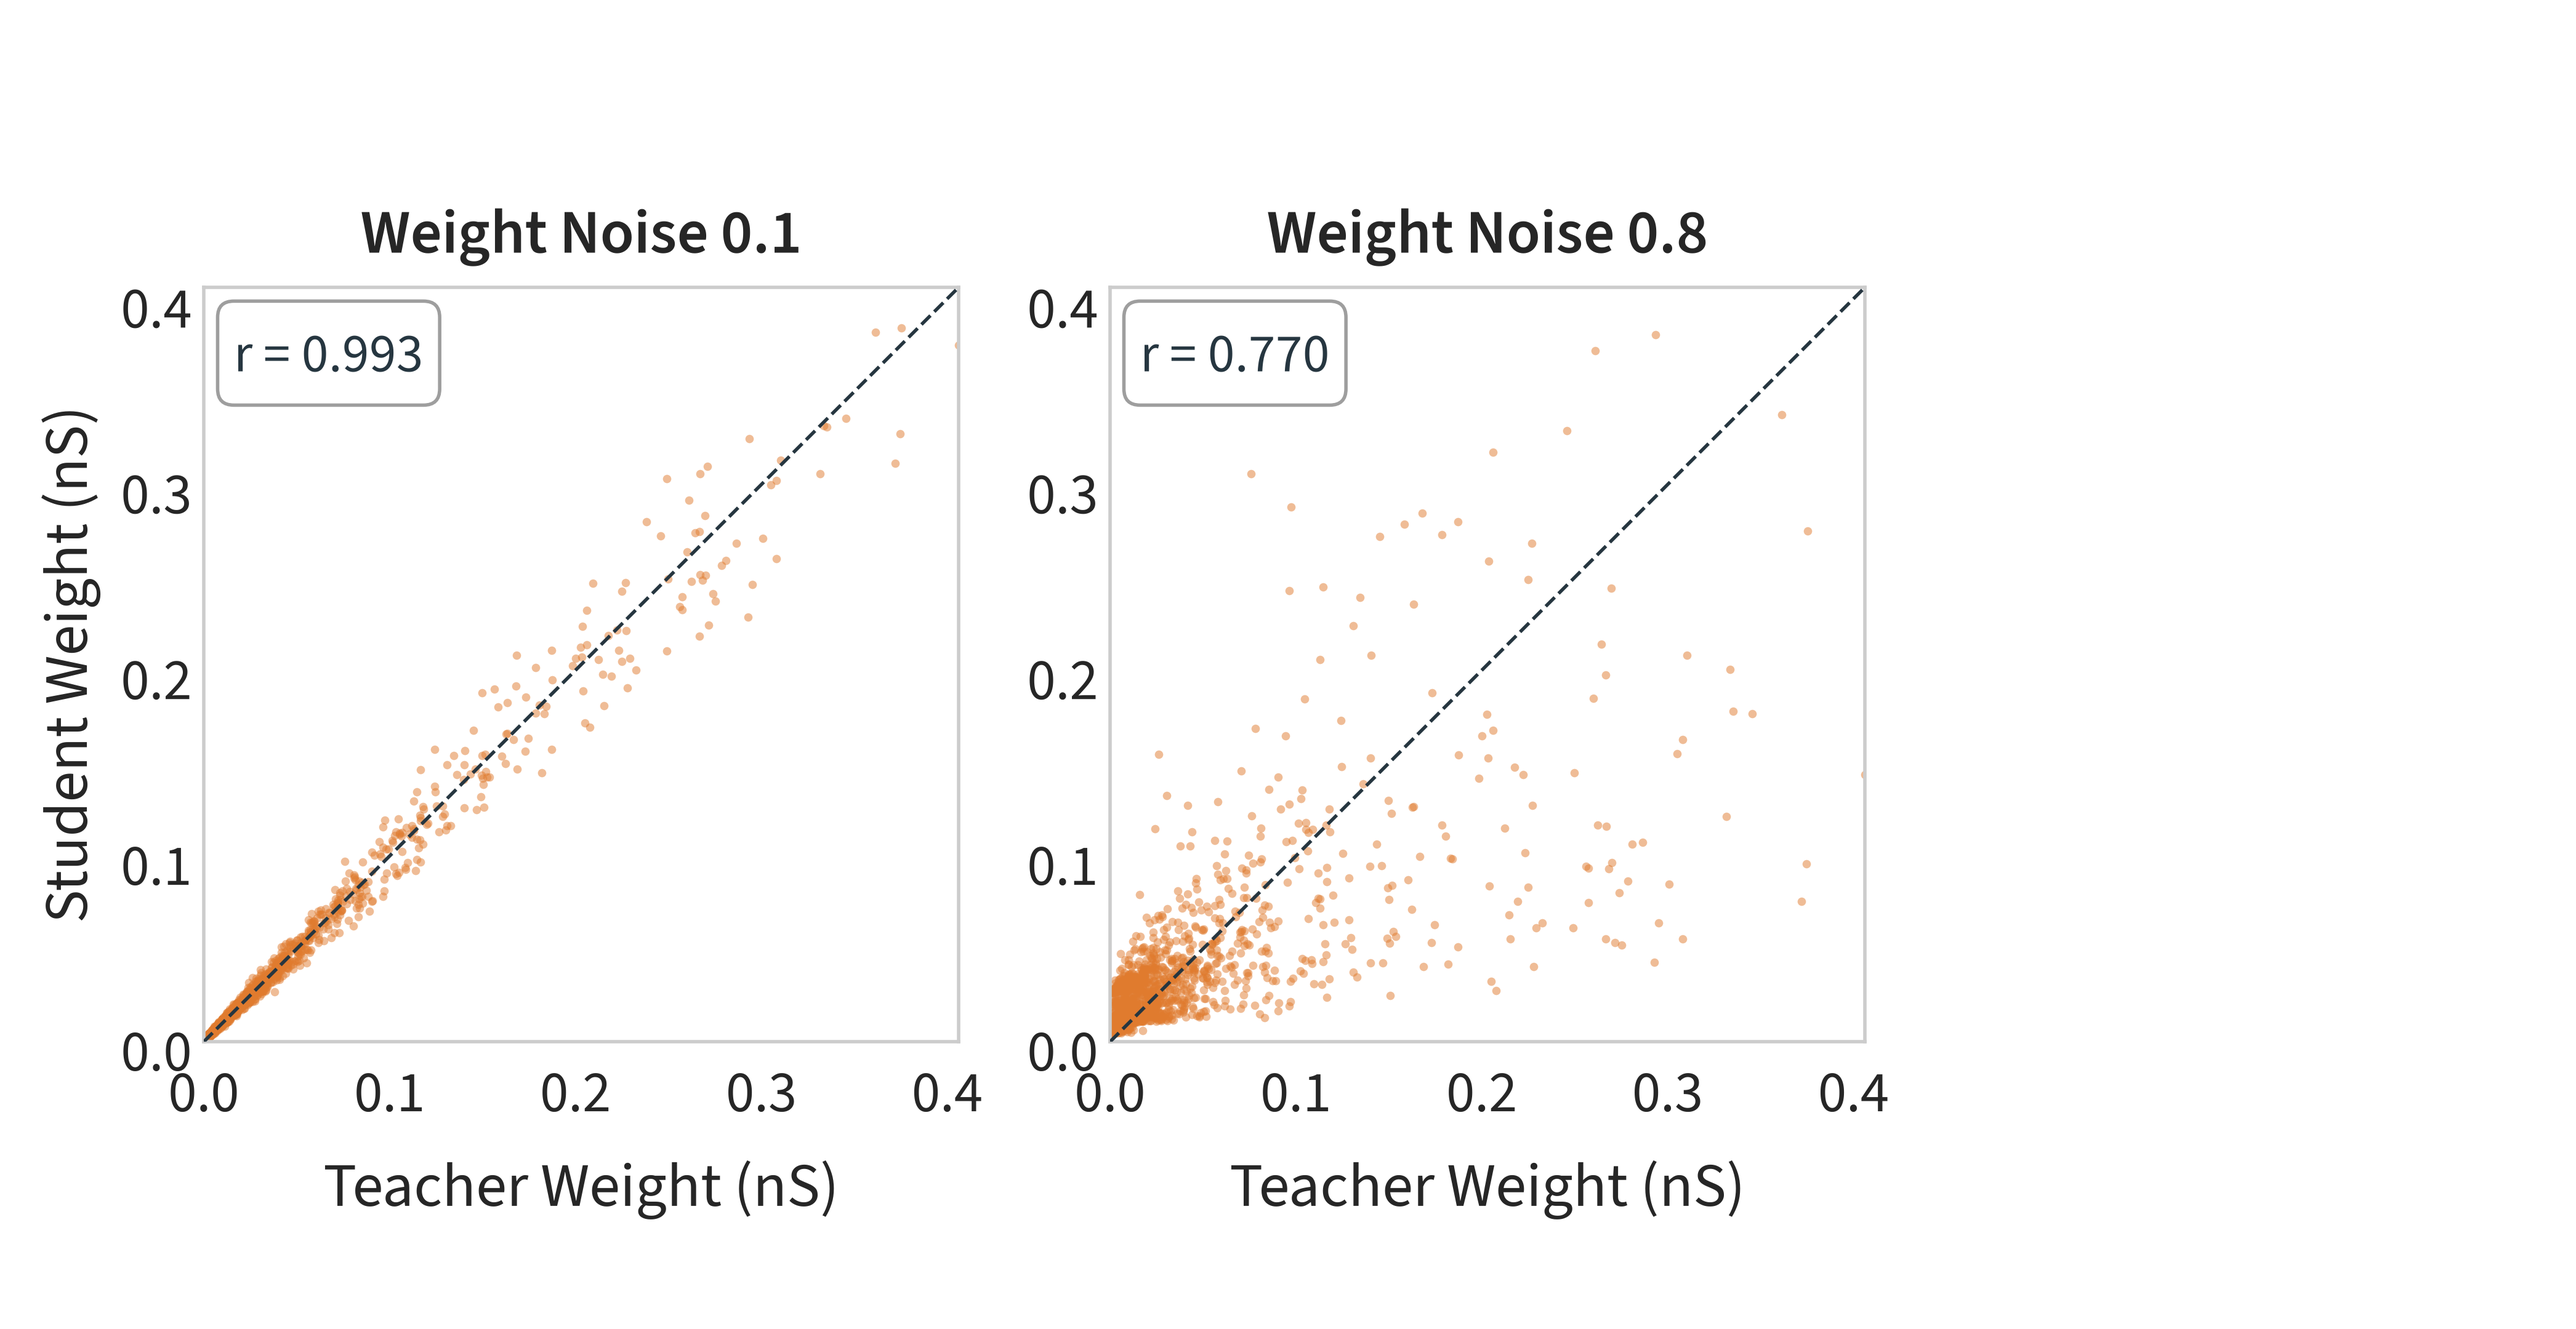
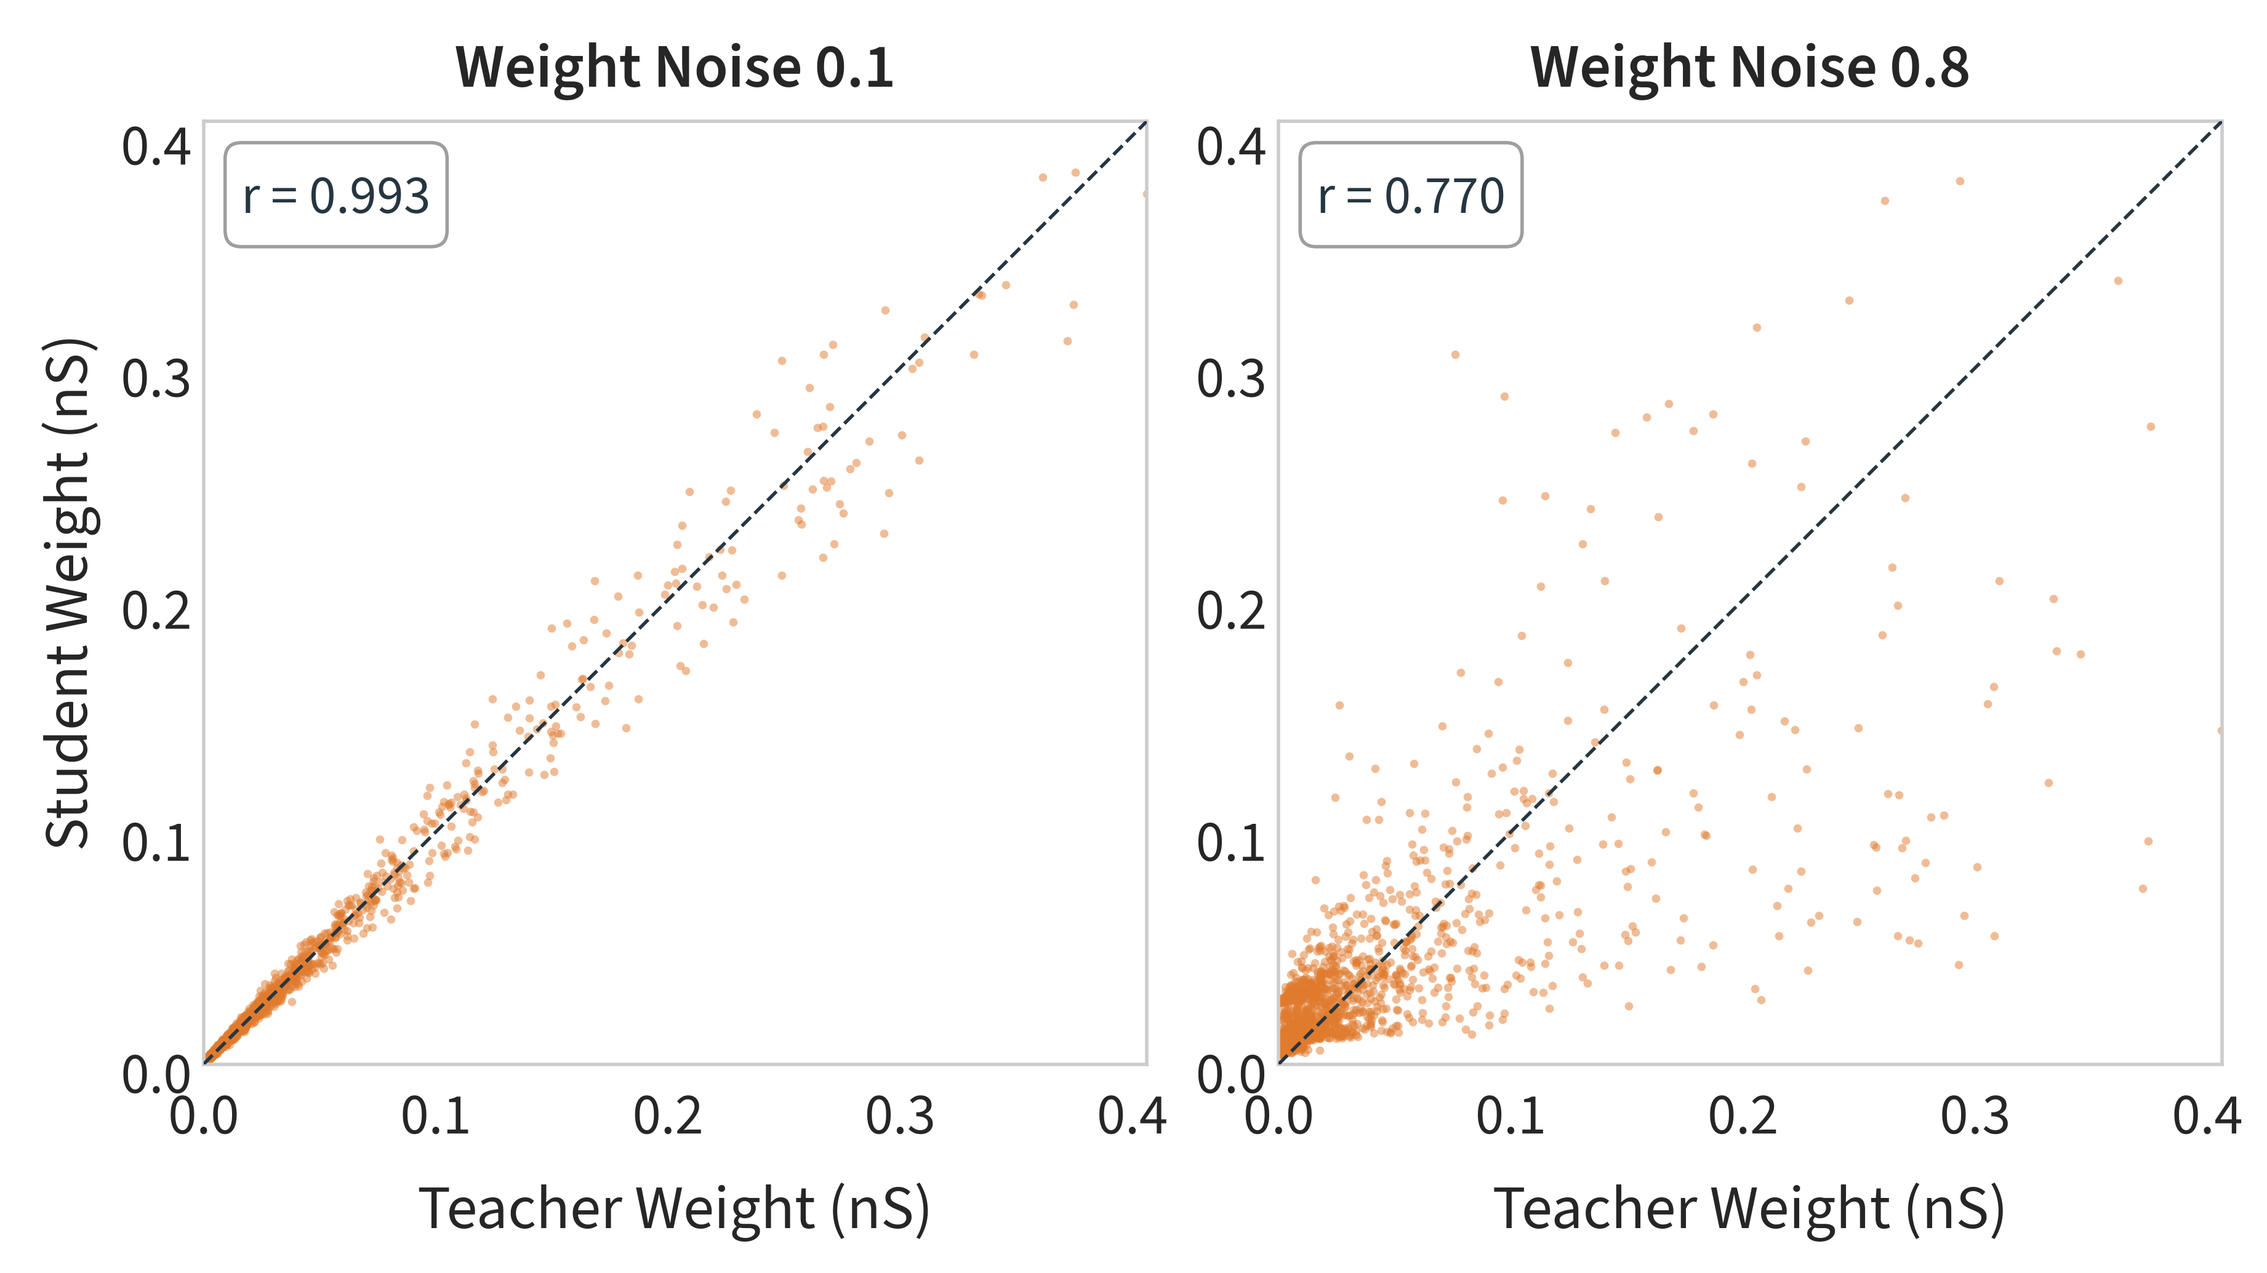
:bug: Fig 5a is a scatter pair, not a sweep panel: no empty legend band

diff --git a/fig05-weight-noise/figures.py b/fig05-weight-noise/figures.py
@@ -94,7 +94,7 @@ def weight_perturbation(table):
     fig, axes = plt.subplots(
         1,
         len(levels),
-        figsize=(PAIR[0] / 2 * len(levels), PAIR[1]),
+        figsize=(PAIR[1] * 0.92 * len(levels), PAIR[1]),
         sharex=True,
         sharey=True,
     )
@@ -136,7 +136,9 @@ def weight_perturbation(table):
             },
         )
     np.atleast_1d(axes)[0].set_ylabel("Student Weight (nS)")
-    sweep_layout(fig)
+    # Not sweep_layout: this panel is a pair of square scatters with no legend, so it
+    # packs itself tight instead of reserving the sweep panels' legend band (2026-09-23).
+    fig.tight_layout(w_pad=0.4)
     return fig
 
 
